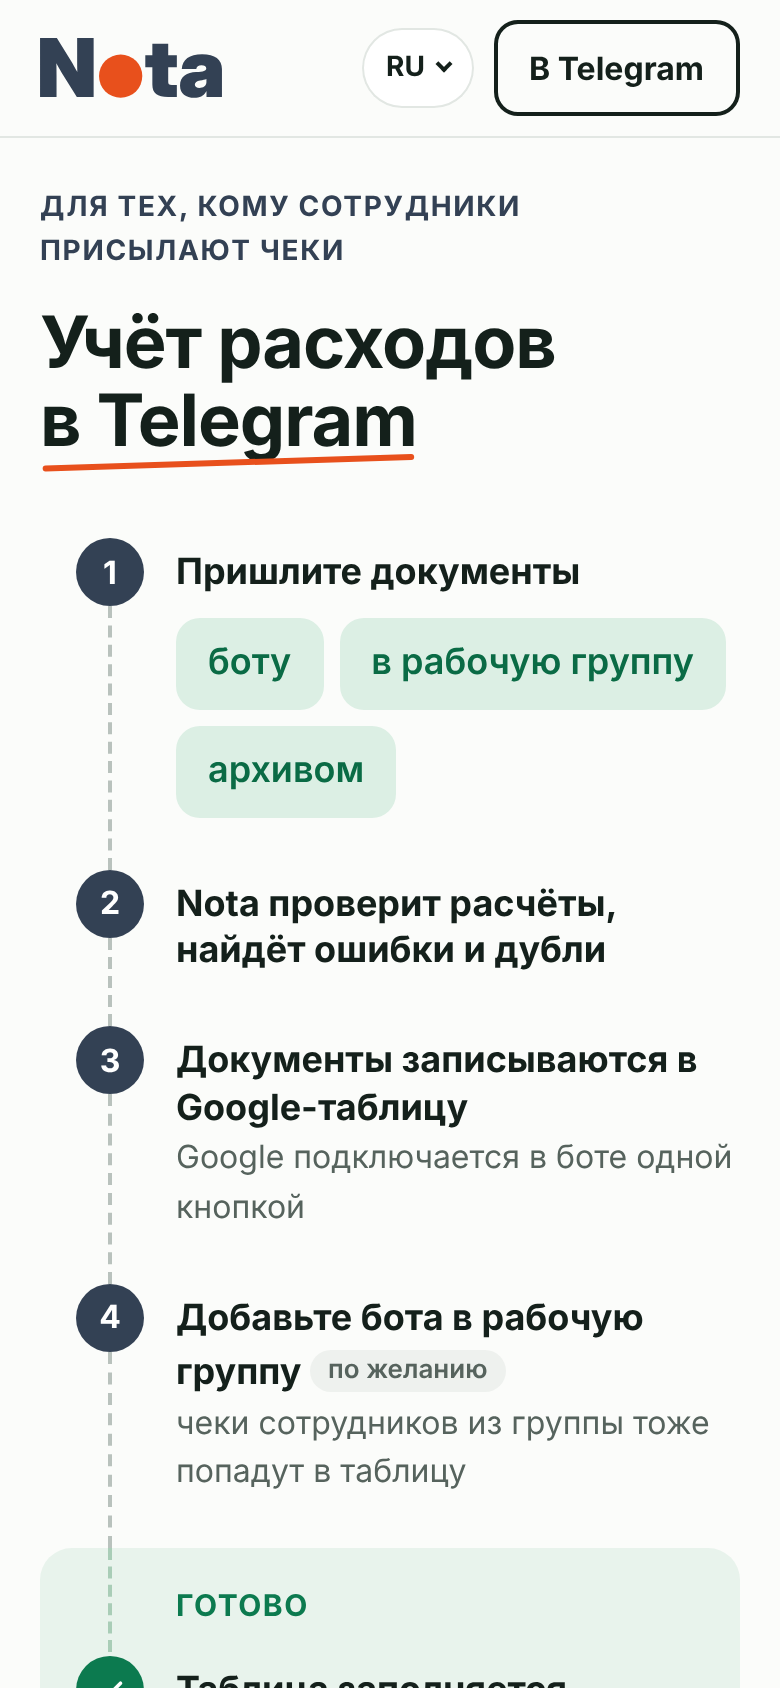
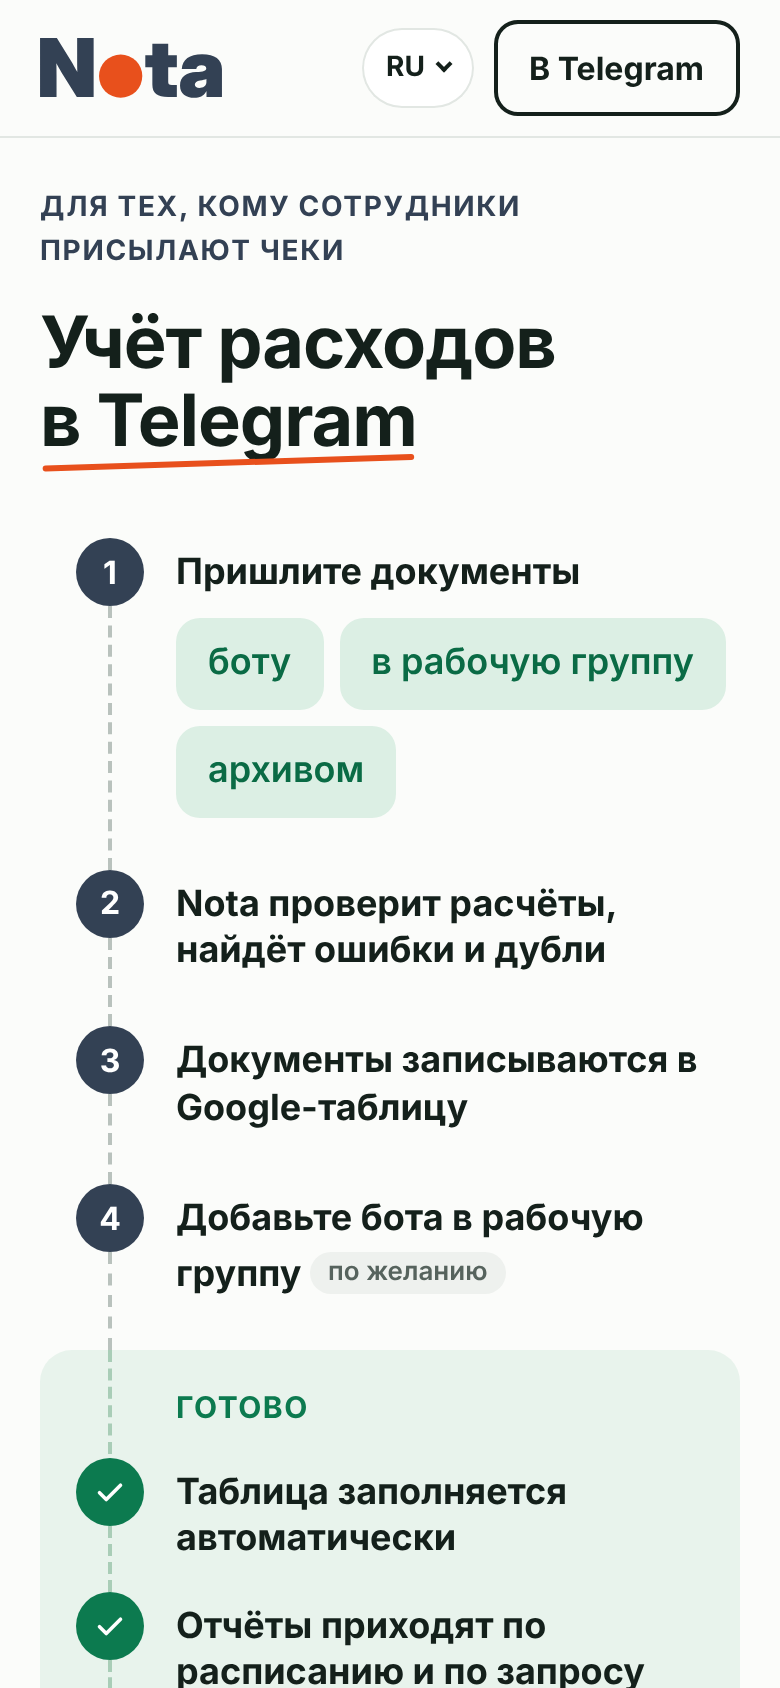
Sketch F: drop sublines under Google and group steps
Claude-Session: https://claude.ai/code/session_01L3HhR7LSGwJtypFbeUeh92

diff --git a/founder/landing-start-sketch/f.html b/founder/landing-start-sketch/f.html
@@ -5,7 +5,7 @@
 <h1 class="f-h1">Учёт расходов <span class="mk-u">в Telegram<svg class="mk-under" viewBox="0 0 200 16" preserveAspectRatio="none" aria-hidden="true"><path d="M3 13C50 11.5 120 8 197 4"/></svg></span></h1>
 <div class="mk-split mk-split--f">
 <div class="mk-left">
-<ol class="f-flow"><li><span class="e-n">1</span><div><b>Пришлите документы</b><span class="f-d"><span class="f-chips"><i>боту</i><i>в рабочую группу</i><i>архивом</i></span></span></div></li><li><span class="e-n">2</span><div><b>Nota проверит расчёты, найдёт ошибки и дубли</b></div></li><li><span class="e-n">3</span><div><b>Документы записываются в Google-таблицу</b><span class="f-d">Google подключается в боте одной кнопкой</span></div></li><li><span class="e-n">4</span><div><b>Добавьте бота в рабочую группу <em>по желанию</em></b><span class="f-d">чеки сотрудников из группы тоже попадут в таблицу</span></div></li></ol><div class="f-auto"><div class="f-auto-h">Готово</div><ol class="f-flow"><li><span class="e-n f-ok"><svg viewBox="0 0 24 24" width="18" height="18" aria-hidden="true" fill="none" stroke="currentColor" stroke-width="2.4" stroke-linecap="round" stroke-linejoin="round"><path d="M5 12.5l4.5 4.5L19 7.5"/></svg></span><div><b>Таблица заполняется автоматически</b></div></li><li><span class="e-n f-ok"><svg viewBox="0 0 24 24" width="18" height="18" aria-hidden="true" fill="none" stroke="currentColor" stroke-width="2.4" stroke-linecap="round" stroke-linejoin="round"><path d="M5 12.5l4.5 4.5L19 7.5"/></svg></span><div><b>Отчёты приходят по расписанию и по запросу</b></div></li><li><span class="e-n f-ok"><svg viewBox="0 0 24 24" width="18" height="18" aria-hidden="true" fill="none" stroke="currentColor" stroke-width="2.4" stroke-linecap="round" stroke-linejoin="round"><path d="M5 12.5l4.5 4.5L19 7.5"/></svg></span><div><b>Уведомления о дублях и ошибках — сразу</b></div></li></ol></div>
+<ol class="f-flow"><li><span class="e-n">1</span><div><b>Пришлите документы</b><span class="f-d"><span class="f-chips"><i>боту</i><i>в рабочую группу</i><i>архивом</i></span></span></div></li><li><span class="e-n">2</span><div><b>Nota проверит расчёты, найдёт ошибки и дубли</b></div></li><li><span class="e-n">3</span><div><b>Документы записываются в Google-таблицу</b></div></li><li><span class="e-n">4</span><div><b>Добавьте бота в рабочую группу <em>по желанию</em></b></div></li></ol><div class="f-auto"><div class="f-auto-h">Готово</div><ol class="f-flow"><li><span class="e-n f-ok"><svg viewBox="0 0 24 24" width="18" height="18" aria-hidden="true" fill="none" stroke="currentColor" stroke-width="2.4" stroke-linecap="round" stroke-linejoin="round"><path d="M5 12.5l4.5 4.5L19 7.5"/></svg></span><div><b>Таблица заполняется автоматически</b></div></li><li><span class="e-n f-ok"><svg viewBox="0 0 24 24" width="18" height="18" aria-hidden="true" fill="none" stroke="currentColor" stroke-width="2.4" stroke-linecap="round" stroke-linejoin="round"><path d="M5 12.5l4.5 4.5L19 7.5"/></svg></span><div><b>Отчёты приходят по расписанию и по запросу</b></div></li><li><span class="e-n f-ok"><svg viewBox="0 0 24 24" width="18" height="18" aria-hidden="true" fill="none" stroke="currentColor" stroke-width="2.4" stroke-linecap="round" stroke-linejoin="round"><path d="M5 12.5l4.5 4.5L19 7.5"/></svg></span><div><b>Уведомления о дублях и ошибках — сразу</b></div></li></ol></div>
 <div class="cta-row cta-row--qr"><a class="btn" href="#">Начать бесплатно</a><div class="cta-qr"><img src="http://localhost:4321/screens/qr-bot-v10.svg" alt="" width="54" height="54"><span>Или камерой телефона</span></div></div>
 <p class="cta-line">30 документов бесплатно, без карты и регистрации</p>
 </div>

diff --git a/founder/landing-start-sketch/build.py b/founder/landing-start-sketch/build.py
@@ -249,8 +249,8 @@ CHIPS = '<span class="f-chips"><i>боту</i><i>в рабочую группу<
 F_YOU = [
     ('Пришлите документы', '', CHIPS),
     ('Nota проверит расчёты, найдёт ошибки и дубли', '', ''),
-    ('Документы записываются в Google-таблицу', '', 'Google подключается в боте одной кнопкой'),
-    ('Добавьте бота в рабочую группу', 'по желанию', 'чеки сотрудников из группы тоже попадут в таблицу'),
+    ('Документы записываются в Google-таблицу', '', ''),
+    ('Добавьте бота в рабочую группу', 'по желанию', ''),
 ]
 F_AUTO = [
     ('Таблица заполняется автоматически', ''),
